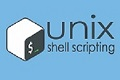
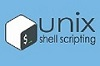
Updated

diff --git a/index.html b/index.html
@@ -109,15 +109,15 @@
         <div class="row">
           <div class="col-md-6"
            style="text-align: center;"><strong class="text-uppercase">Programming Languages </strong> <br><br>
-           <img src="/css/images/java.png" class="rounded float-left" alt="java">
+           <img src="/css/images/java.png" class="rounded mx-auto d-block" alt="java">
           </div>
           <div class="col-md-6"
           style="text-align: center;"><strong class="text-uppercase">Scripting Languages </strong> <br><br>
            <img src="/css/images/js.png" class="rounded float-left" alt="JavaScript">
-           <img src="/css/images/unix.jpg" class="rounded float-left" alt="UNIX">
+           <img src="/css/images/unix.jpg" class="rounded mx-auto d-block" alt="UNIX">
            <img src="/css/images/powershell.jpg" class="rounded float-right" alt="Shell">
           </div>
-        </div><br>
+        </div><br><br>
         <div class="row">
           <div class="col-md-6"
            style="text-align: center;"><strong class="text-uppercase">Tools</strong> <br><br>
@@ -129,17 +129,17 @@
           <div class="col-md-6"
           style="text-align: center;"><strong class="text-uppercase">Markup Languages </strong> <br><br>
           <img src="/css/images/html.jpg" class="rounded float-left" alt="html">
-          <img src="/css/images/css.png" class="rounded float-left" alt="css">
+          <img src="/css/images/css.jpg" class="rounded mx-auto d-block" alt="css">
           <img src="/css/images/xml.jpg" class="rounded float-right" alt="XML">
          </div>
-         </div><br>
-        <div class="row">
+         </div><br><br>
+        
           <div class="col-md-6"
           style="text-align: center;"><strong class="text-uppercase">Framework </strong> <br><br>
           <img src="/css/images/spring.png" class="rounded float-left" alt="spring">
           <img src="css/images/express.png" class="rounded float-right" alt="express">
-         </div><br>
-        </div>
+         </div><br><br>
+        
         </div>
     </div>
   </div>
